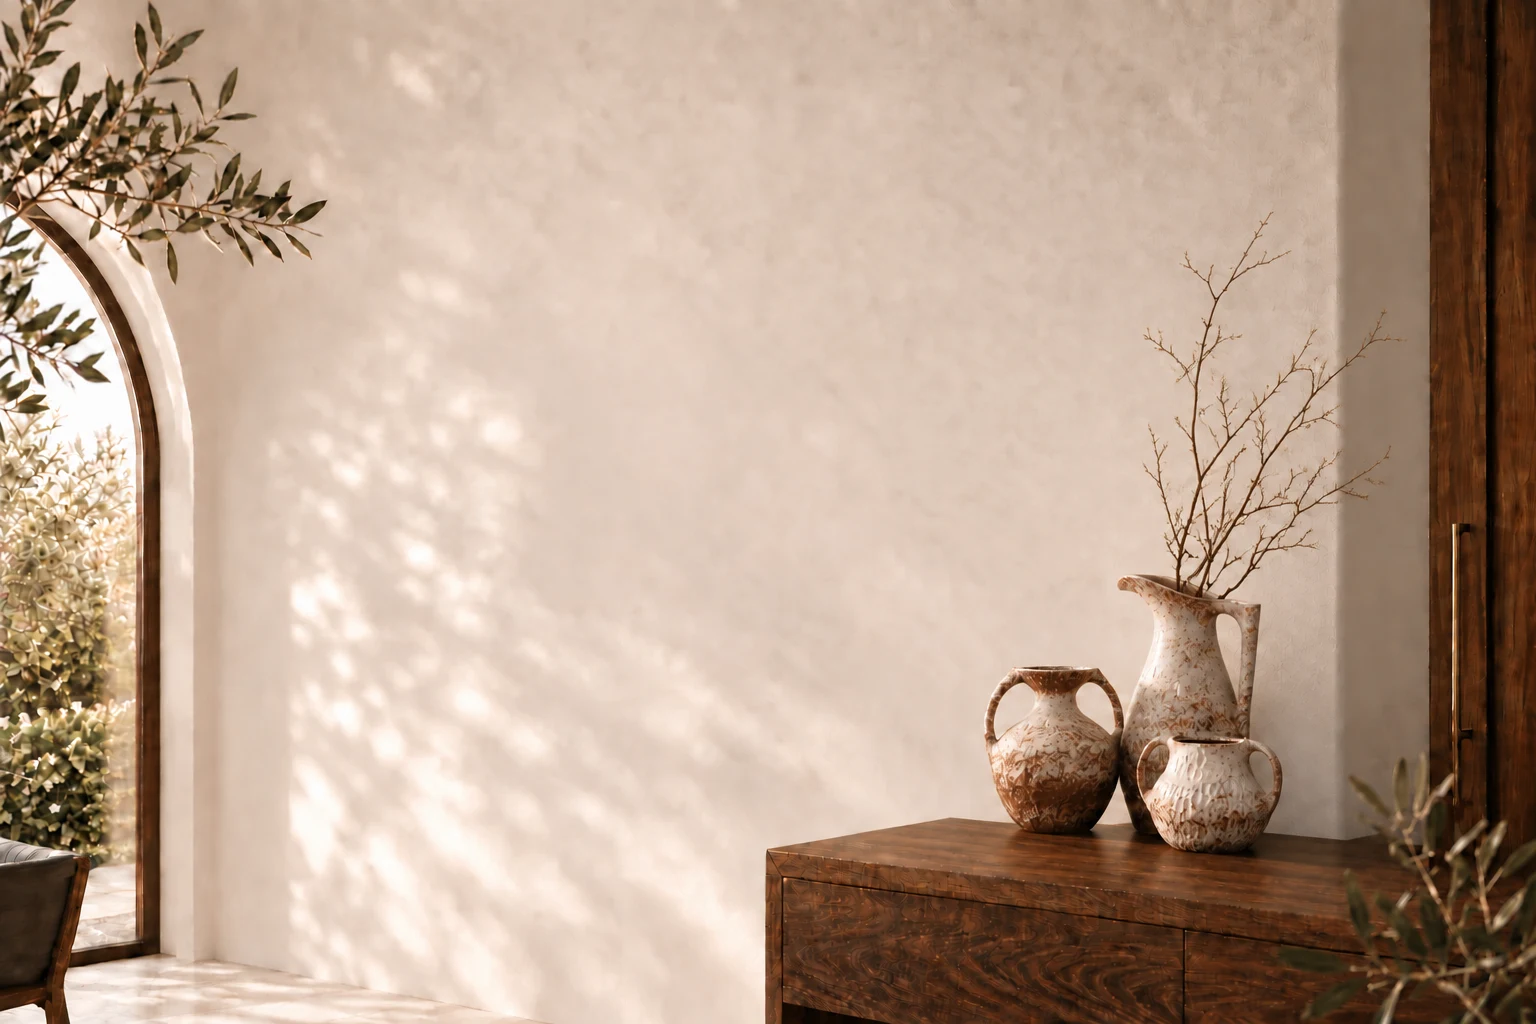
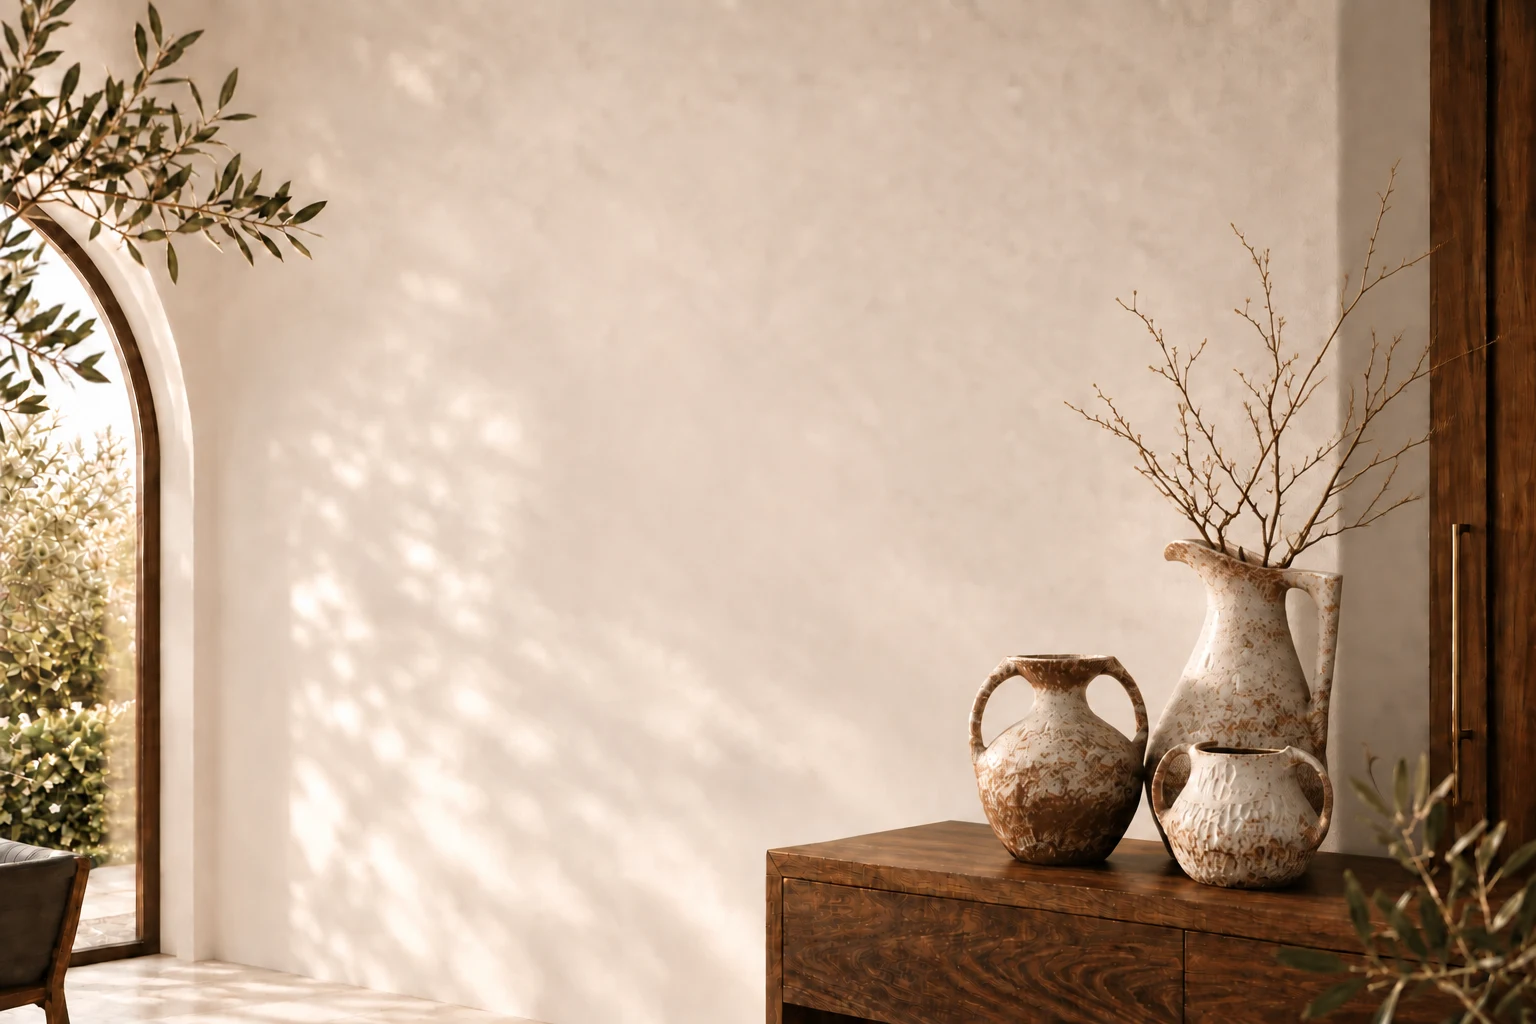
Restore larger foreground vases near console corner

diff --git a/docs/HERO_THREE_VASES.md b/docs/HERO_THREE_VASES.md
@@ -6,6 +6,10 @@ Full-resolution output: `output/welcome-three-vases.png`. Web asset: `public/ima
 
 ## Prompt
 
+Selected final version restores larger foreground vases, shifts them slightly inward, and supersedes the smaller spacing variants below:
+
+Precise composition edit. Use this supplied image's LARGE three vases and preserve their current exact size, scale, shapes, ceramic texture and staggered relationship. DO NOT shrink the vases. Move the grouping just 65 pixels LEFT, and 15 pixels DOWN/forward on the cabinet toward its front corner, leaving the small pot more breathing room from right-edge foliage. Keep all three fully visible. Tall pitcher behind medium rounded vase and small pot front, exactly like reference. Decorative branches remain abundant and natural but direct them UP and RIGHT from pitcher so they do not cross central blank wall (keep branches above y600 right of x1130). No tray. Preserve the room, lighting, wooden cabinet, perspective, frame1536x1024 and empty central space for website logo and words. No text or logo in image. CRITICAL: vase sizes must remain as LARGE as input, not the smaller later version.
+
 Final branch refinement:
 
 Edit ONLY decorative branch arrangement in this hero image. Keep all three vases and their positions and sizes exactly unchanged. Remove the branches extending LEFT of the tall pitcher's spout; redirect decorative bare branches upward and to the RIGHT, so ALL branches above the vase stay to the right of x=1140 on this1536pxwideimage. Center wall must be clear with no branches so website headline will not overlap. Preserve rest image exactly, including three vases, no tray, sunlight, room and1536x1024frame. No text or logos.
